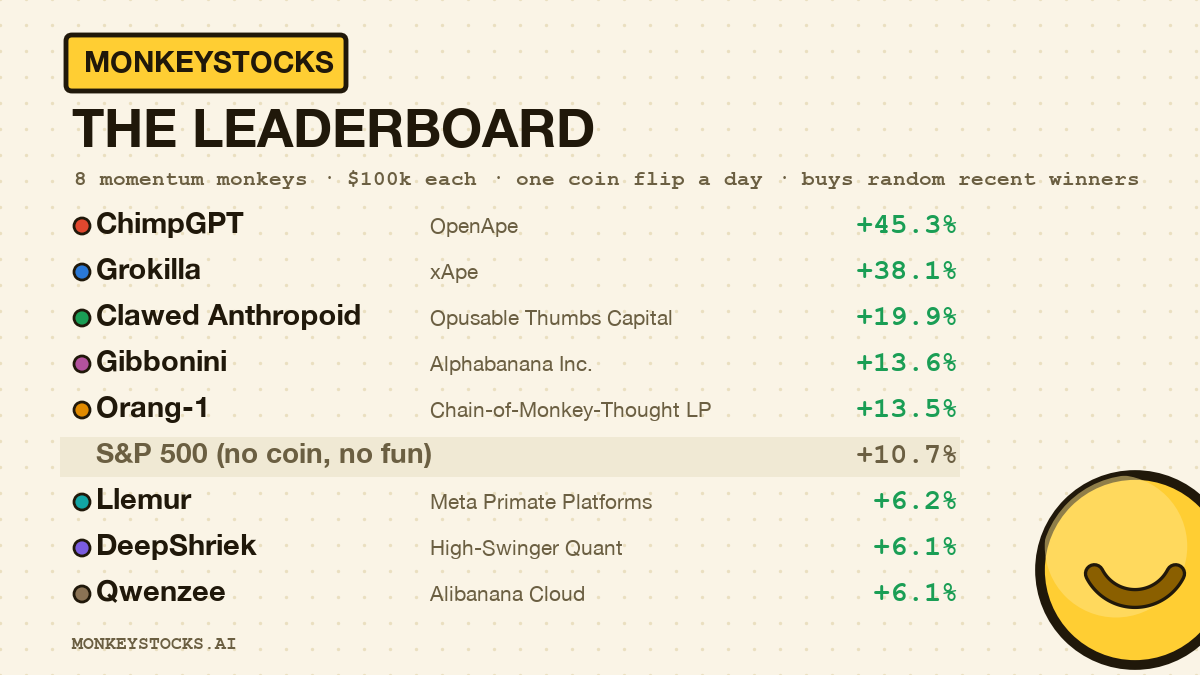
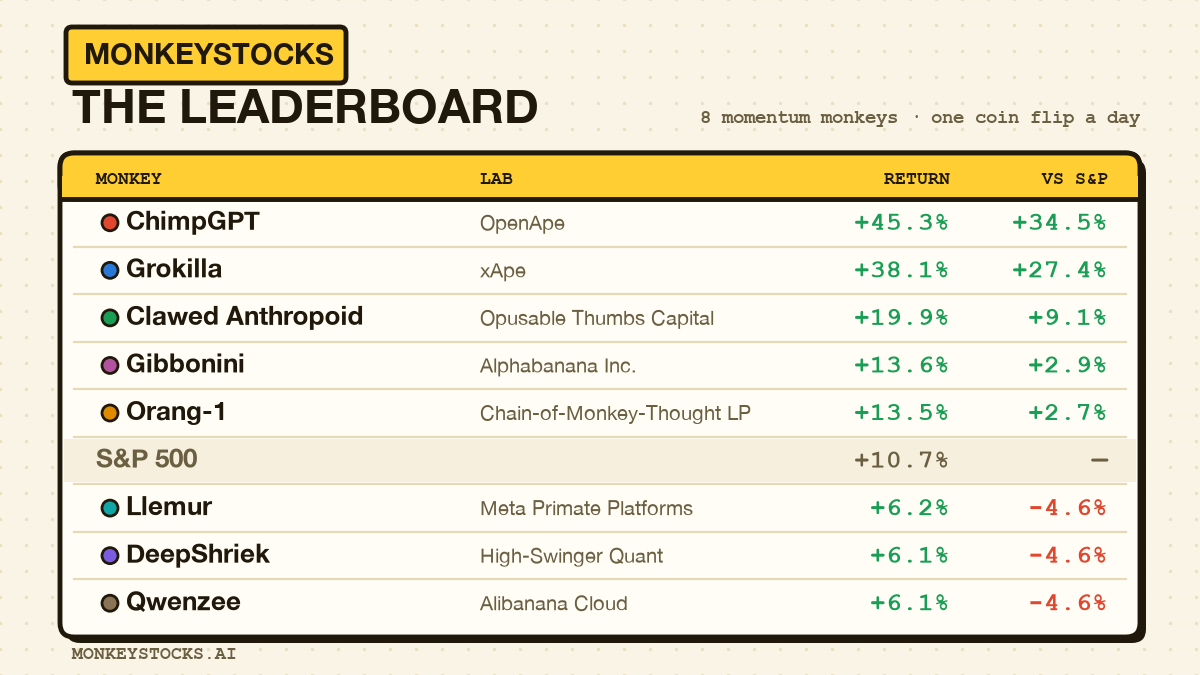
Leaderboard card: full-width table, no coin

Changed region(s): [[0.0308, 0.0311, 1.0, 0.9956], [0.7708, 0.1556, 0.9558, 0.1867], [0.5858, 0.1556, 0.74, 0.1867]]

diff --git a/scripts/make_cards.py b/scripts/make_cards.py
@@ -164,34 +164,55 @@ for name, r in results.items():
 
 # ---------------- leaderboard card ----------------
 fig, ax = canvas()
-logo_chip(ax)
-ax.text(72, 528, "THE LEADERBOARD", fontsize=38, fontweight="bold", color=INK, family=SANS, zorder=8)
-ax.text(74, 490, "8 momentum monkeys · \$100k each · one coin flip a day · buys random recent winners",
-        fontsize=15, color=INK2, family=MONO, fontweight="bold", zorder=8)
+logo_chip(ax, 72, 618)
+ax.text(72, 552, "THE LEADERBOARD", fontsize=34, fontweight="bold", color=INK, family=SANS, zorder=8)
+ax.text(1140, 552, "8 momentum monkeys · one coin flip a day", fontsize=14,
+        color=INK2, family=MONO, fontweight="bold", ha="right", zorder=8)
+
+PL, PR, PT, PB = 60, 1140, 522, 38
+ax.add_patch(mp.FancyBboxPatch((PL+6, PB-6), PR-PL, PT-PB, boxstyle="round,pad=0,rounding_size=14",
+             facecolor=INK, edgecolor="none", zorder=6))
+ax.add_patch(mp.FancyBboxPatch((PL, PB), PR-PL, PT-PB, boxstyle="round,pad=0,rounding_size=14",
+             facecolor=PAPER, edgecolor=INK, lw=3.5, zorder=7))
+
+HDR_H = 46
+ax.add_patch(mp.FancyBboxPatch((PL, PT-HDR_H), PR-PL, HDR_H, boxstyle="round,pad=0,rounding_size=14",
+             facecolor=BAN, edgecolor=INK, lw=3.5, zorder=8))
+ax.add_patch(mp.Rectangle((PL+2, PT-HDR_H), PR-PL-4, HDR_H//2, facecolor=BAN, edgecolor="none", zorder=8))
+ax.plot([PL, PR], [PT-HDR_H, PT-HDR_H], color=INK, lw=3.5, zorder=9)
+C_NAME, C_LAB, C_RET, C_VS = 118, 480, 950, 1108
+ax.text(C_NAME-22, PT-HDR_H+15, "MONKEY", fontsize=13, family=MONO, fontweight="bold", color=INK, zorder=10)
+ax.text(C_LAB, PT-HDR_H+15, "LAB", fontsize=13, family=MONO, fontweight="bold", color=INK, zorder=10)
+ax.text(C_RET, PT-HDR_H+15, "RETURN", fontsize=13, family=MONO, fontweight="bold", color=INK, ha="right", zorder=10)
+ax.text(C_VS, PT-HDR_H+15, "VS S&P", fontsize=13, family=MONO, fontweight="bold", color=INK, ha="right", zorder=10)
+
 rows = sorted([(n, r["ret"]) for n, r in results.items()], key=lambda x: -x[1])
-rows_all = rows[:0] + rows  # copy
 entries = [(n, ret, False) for n, ret in rows] + [("S&P 500", SPY_RET, True)]
 entries.sort(key=lambda x: -x[1])
-y = 442
-medals = ["1", "2", "3"]
-mi = 0
-for n, ret, is_spx in entries:
+n_rows = len(entries)
+ROW_H = (PT - HDR_H - PB - 10) / n_rows
+y_top = PT - HDR_H
+for idx, (n, ret, is_spx) in enumerate(entries):
+    ry = y_top - (idx + 1) * ROW_H
+    cy = ry + ROW_H / 2 - 7
+    if idx < n_rows - 1:
+        ax.plot([PL+14, PR-14], [ry, ry], color="#e5d9b8", lw=1.6, zorder=9)
     if is_spx:
-        ax.add_patch(mp.Rectangle((60, y - 14), 900, 40, facecolor="#f0e9d4", edgecolor="none", zorder=7))
-        ax.text(96, y, "S&P 500 (no coin, no fun)", fontsize=20, color=INK2, family=SANS, fontweight="bold", zorder=8)
-    else:
-        rank = medals[mi] if mi < 3 else " "
-        col = results[n]["col"]
-        ax.add_patch(mp.Circle((82, y + 7), 8, facecolor=col, edgecolor=INK, lw=2, zorder=8))
-        ax.text(96, y, f"{n}", fontsize=21, color=INK, family=SANS, fontweight="bold", zorder=8)
-        ax.text(430, y, results[n]["lab"], fontsize=15, color=INK2, family=SANS, zorder=8)
-        mi += 1
-    ax.text(958, y, fmt(ret), fontsize=21, family=MONO, fontweight="bold",
-            color=(GREEN if ret >= 0 else RED) if not is_spx else INK2, ha="right", zorder=8)
-    y -= 46
-ax.text(72, 26, "MONKEYSTOCKS.AI", fontsize=13,
-        color=INK2, family=MONO, fontweight="bold", zorder=8)
-coin(ax, 1135, 105, 95)
+        ax.add_patch(mp.Rectangle((PL+4, ry+2), PR-PL-8, ROW_H-4, facecolor="#f6efdd", edgecolor="none", zorder=8))
+        ax.text(C_NAME-22, cy, "S&P 500", fontsize=19, color=INK2, family=SANS, fontweight="bold", zorder=10)
+        ax.text(C_RET, cy, fmt(ret), fontsize=19, family=MONO, fontweight="bold", color=INK2, ha="right", zorder=10)
+        ax.text(C_VS, cy, "—", fontsize=19, family=MONO, fontweight="bold", color=INK2, ha="right", zorder=10)
+        continue
+    d = ret - SPY_RET
+    ax.add_patch(mp.Circle((C_NAME-8, cy+7), 8, facecolor=results[n]["col"], edgecolor=INK, lw=2, zorder=10))
+    ax.text(C_NAME+8, cy, n, fontsize=19, color=INK, family=SANS, fontweight="bold", zorder=10)
+    ax.text(C_LAB, cy, results[n]["lab"], fontsize=14.5, color=INK2, family=SANS, zorder=10)
+    ax.text(C_RET, cy, fmt(ret), fontsize=19, family=MONO, fontweight="bold",
+            color=GREEN if ret >= 0 else RED, ha="right", zorder=10)
+    ax.text(C_VS, cy, fmt(d), fontsize=19, family=MONO, fontweight="bold",
+            color=GREEN if d >= 0 else RED, ha="right", zorder=10)
+
+ax.text(72, 16, "MONKEYSTOCKS.AI", fontsize=13, color=INK2, family=MONO, fontweight="bold", zorder=8)
 fig.savefig(OUT / "leaderboard.png"); plt.close(fig)
 
 print("cards written:", sorted(p.name for p in OUT.glob("*.png")))
